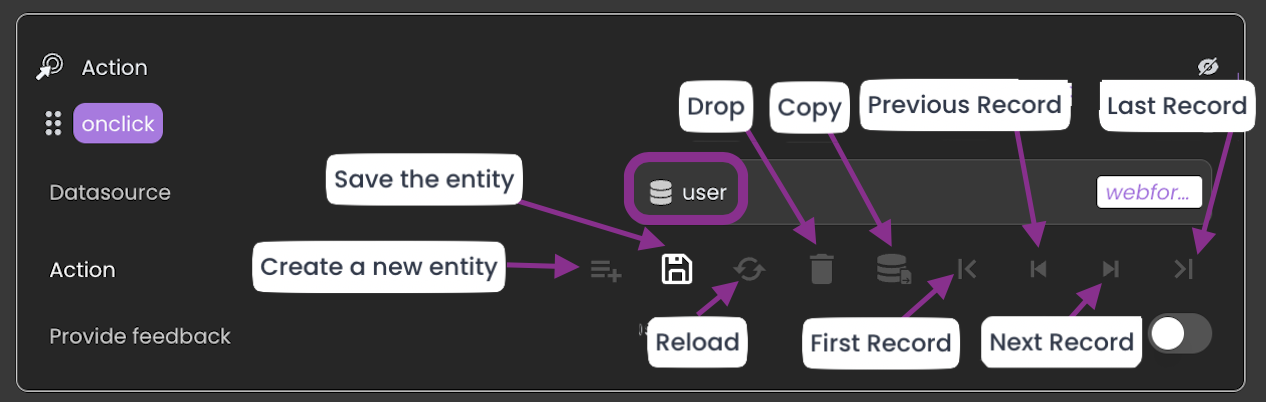
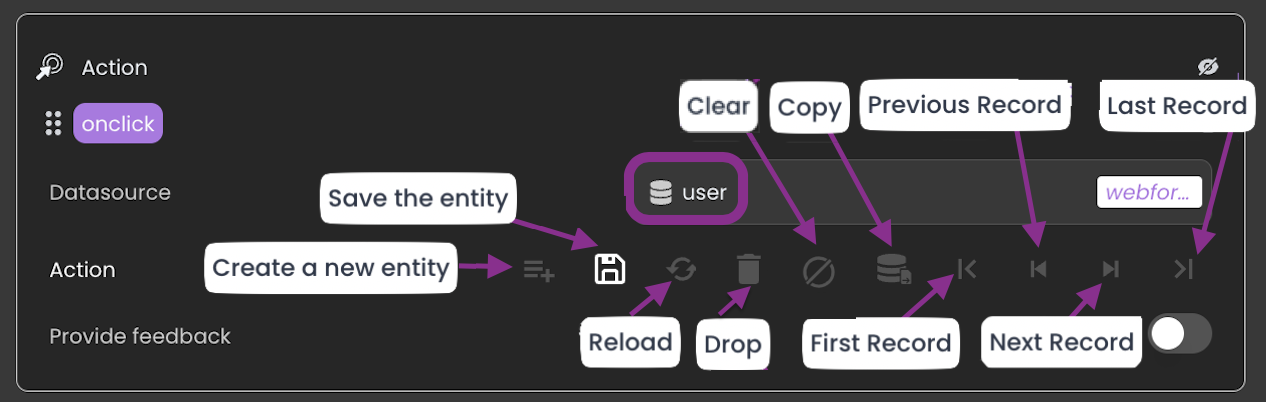
Bind Navigation Actions to Events + Navigate to Shared Folder Content revised

Changed region(s): [[0.154, 0.3582, 0.6777, 0.9254], [0.5237, 0.1791, 0.6161, 0.3284], [0.6469, 0.7761, 0.6777, 0.806]]

diff --git a/docs/studio/design-webforms/events.md b/docs/studio/design-webforms/events.md
@@ -99,7 +99,147 @@ In event coordination, actions are linked together sequentially. Pay attention t
 
 ## Configuring events
 
-The Contextual panel facilitates the association of class functions, navigation actions, and standard actions with distinct events within your application. To streamline the configuration of event actions, refer to the subsequent guidelines:
+The Contextual panel facilitates the association of class functions, navigation actions, and standard actions with distinct events within your application.
+
+### Bind Standard Actions to Events
+
+Standard actions apply to datasources, and their availability depends on the type of datasource. Datasources can be categorized into three types: Entity, Entity Selection, and Scalar. To link standard actions with events, follow these steps:
+
+- <Column.List align="center" justifyContent="between">
+	<Column.Item width="55%">
+        <span style={{fontWeight: 'bold'}}>Select and Assign</span>: Choose a component or datasource to access compatible events in the Contextual panel. Then, assign a standard action to your desired event by clicking <code>Add a Standard Action</code>.
+	</Column.Item>
+	<Column.Item width="40%">
+		<img alt="explorer" src={require('./img/contextualPanel_addStandardActionEvent.png').default} style={{borderRadius: '6px'}} />
+	</Column.Item>
+</Column.List>
+
+- **Define Action**: In the designated Action area, provide the name of the `datasource`, thus unveiling its inherent capabilities. The available actions vary, contingent on the type of datasource:
+
+    - <Column.List align="center" justifyContent="between">
+        <Column.Item width="55%">
+            For <span style={{fontWeight: 'bold'}}>Scalar datasources</span>: offer the ability either copy its content into another datasrouce of the same type or clear its content.
+        </Column.Item>
+        <Column.Item width="40%">
+            <img alt="explorer" src={require('./img/contextualPanel_scalarDatasourcesStandardActions.png').default} style={{borderRadius: '6px'}} />
+        </Column.Item>
+    </Column.List>
+
+    - <Column.List align="center" justifyContent="between">
+        <Column.Item width="55%">
+            For <span style={{fontWeight: 'bold'}}>Entity selections</span>: offer the ability to arrange and choose attributes for sorting. You can query, refresh, load all entities of a particular data class, and create new empty selections.
+        </Column.Item>
+        <Column.Item width="40%">
+            <img alt="explorer" src={require('./img/contextualPanel_entitySelectionStandardActions.png').default} style={{borderRadius: '6px'}} />
+        </Column.Item>
+    </Column.List>
+
+    - <Column.List align="center" justifyContent="between">
+        <Column.Item width="55%">
+           For <span style={{fontWeight: 'bold'}}>Entities from Entity Selections Datasources</span>: you can create new ones, save them, reload them, or even drop them. You have the ability to navigate through the entity selection, traversing to the first, previous, next, or last entity.
+        </Column.Item>
+        <Column.Item width="40%">
+            <img alt="explorer" src={require('./img/contextualPanel_entityStandardActions.png').default} style={{borderRadius: '6px'}} />
+        </Column.Item>
+    </Column.List>
+
+    - <Column.List align="center" justifyContent="between">
+        <Column.Item width="55%">
+            While <span style={{fontWeight: 'bold'}}>Independently Created Standalone Entities</span>: permits only direct actions like create, remove, or reload, as navigation actions are not applicable in this context, with the possibility to even clear it.
+        </Column.Item>
+        <Column.Item width="40%">
+            <img alt="explorer" src={require('./img/contextualPanel_entityStandaloneStandardActions.png').default} style={{borderRadius: '6px'}} />
+        </Column.Item>
+    </Column.List>
+
+<br />
+
+:::info
+[Entities originating from an entity selection datasource](datasources.md#standalone-entity-vs-entity-from-es) enable iterative navigation within the selection, while [Independently Created Standalone Entities](datasources.md#standalone-entity-vs-entity-from-es) are generated independently and lack any selection affiliation.
+:::
+
+<br />
+
+- **Provide Feedback**: Enable the <code>Provide Feedback</code> checkbox to customize the handling of unexpected error messages, determining what will be displayed to end users. For more detailed information, refer to the <a href="#providing-feedback">Provide Feedback</a> section. Here, you have the ability to:
+
+    <Column.List align="center" justifyContent="between">
+        <Column.Item width="55%">
+            <ul>
+                <li>Provide simple UI feedback on a <code>Save</code>, <code>Reload</code>, or <code>Drop</code> standard action on an entity.</li><br/>
+                <li>Provide simple UI feedback on a <code>Reload</code>, <code>Order by</code>, or <code>Query</code> standard action on an EntitySelection.</li>
+            </ul>
+        </Column.Item>
+        <Column.Item width="40%">
+            <img alt="explorer" src={require('./img/contextualPanel_provideFeedbackStandardAction.png').default} style={{borderRadius: '6px'}} />
+        </Column.Item>
+    </Column.List>
+
+<br />
+
+
+Here's an overview of available standard actions:
+
+|Datasource type|Action|Description|
+|---|---|---|
+|Entity|Create a new entity| Generate a new entity from the corresponding dataclass|
+||Save the entity|Save the entity on the server|
+||Reload|Reload entity values from the server|
+||Drop|Delete the entity on the server|
+||Copy|Copy the entity to a target entity datasource|
+||Clear|Put `null` in the datasource. If the datasource is the selected element of a component (Matrix, Select box, Datatable), clearing the datasource also unselects the selected element|
+||First (*)| Navigate to the first entity within the entity selection|
+||Previous (*)|Move to the previous entity within the entity selection|
+||Next (*)|Advance to the next entity within the entity selection|
+||Last (*)|Navigate to the last entity within the entity selection|
+|Entity selection|Order By|Specify one or more attributes to sort and select direction|
+||Query|The query is provided as a string and supports the same syntax as an [ORDA query](../../orda/queries.md), except for formula (`eval`) and the `settings` object. Placeholders can be used with datasources or data as-is|
+||Reload|Reload the entire entity selection from the server|
+||All|Load all entities of the same dataclass|
+||Clear|Remove any content and create a new, empty selection of the same dataclass|
+||Copy|Copy the entity selection to a target entity selection datasource|
+|Scalar|Copy|Copy the content of the datasource to a target datasource|
+||Clear|Erase the content within the datasource|
+
+(*) Only available for Entities from Entity Selection Datasources.
+
+
+### Bind Navigation Actions to Events
+
+To associate navigation actions with events, follow these steps:
+
+- <Column.List align="center" justifyContent="between">
+	<Column.Item width="55%">
+        <span style={{fontWeight: 'bold'}}>Select and Assign</span>: Choose a component or datasource to access compatible events in the Contextual panel. Then, assign a navigation action to your desired event by clicking <code>Add a Navigation Action</code>.
+	</Column.Item>
+	<Column.Item width="40%">
+		<img alt="explorer" src={require('./img/contextualPanel_addNavigationEvent.png').default} style={{borderRadius: '6px'}} />
+	</Column.Item>
+</Column.List>
+
+- **Explore Target Webforms**: Navigate through the available selection of target webforms, each representing a distinct destination for navigation actions.
+
+- **Define Transition Method**: Define the approach through which the target webform will be presented based on the following options:
+
+    <Column.List align="center" justifyContent="between">
+        <Column.Item width="60%">
+            <ul>
+                <li> <code>New Tab</code>: Induce the opening of a new browser tab.</li>
+                <li> <code>Current Tab</code>: Replace the ongoing browser tab with the chosen webform.</li>
+                <li> <code>Webform Loader</code>: Access the intended webform through a dedicated <a href="components/webformloader">Webform loader</a>.</li>
+                <li> <code>Webform Loader (Self)</code>: Reveals content within the existing <a href="components/webformloader">Webform loader</a></li>.
+            </ul>
+        </Column.Item>
+        <Column.Item width="35%">
+            <img alt="explorer" src={require('./img/contextualPanel_navigationAction.png').default} style={{borderRadius: '6px'}} />
+        </Column.Item>
+    </Column.List>
+ 
+Please be aware that:
+
+:::tip 
+The feature for providing feedback is not applicable in the context of navigation events. This implies that users will not have the option to provide feedback regarding their navigation experience.
+:::
+
 
 ### Bind Class Functions to Events
 
@@ -165,91 +305,6 @@ On top of that:
 A single class function can be utilized across multiple events, allowing you to assign multiple events to a single function and observe a coordinated sequence of actions taking place.
 :::
 
-### Bind Navigation Actions to Events
-
-To associate navigation actions with events, follow these steps:
-
-- **Select a component or a datasource**: The Contextual panel will present you with a list of compatible events tailored to your selection.
-
-- <Column.List align="center" justifyContent="between">
-	<Column.Item width="55%">
-        <span style={{fontWeight: 'bold'}}>Add a Navigation Event</span>: Click on <code>Add a Navigation Event</code> to assign a navigation action to a desired event.
-	</Column.Item>
-	<Column.Item width="40%">
-		<img alt="explorer" src={require('./img/contextualPanel_addNavigationEvent.png').default} style={{borderRadius: '6px'}} />
-	</Column.Item>
-</Column.List>
-
-- **Explore Target Webforms**: Navigate through the available selection of target webforms, each representing a distinct destination for navigation actions.
-
-- **Define Transition Method**: Define the approach through which the target webform will be presented based on the following options:
-
-    <Column.List align="center" justifyContent="between">
-        <Column.Item width="60%">
-                - <code>New Tab</code>: Induce the opening of a new browser tab.<br />
-                - <code>Current Tab</code>: Replace the ongoing browser tab with the chosen webform.<br />
-                - <code>Webform Loader</code>: Access the intended webform through a dedicated <a href="components/webformloader">Webform loader</a>.<br />
-                - <code>Webform Loader (Self)</code>: Reveals content within the existing <a href="components/webformloader">Webform loader</a>.
-        </Column.Item>
-        <Column.Item width="35%">
-            <img alt="explorer" src={require('./img/contextualPanel_navigationAction.png').default} style={{borderRadius: '6px'}} />
-        </Column.Item>
-    </Column.List>
- 
-Please be aware that:
-
-:::tip 
-The feature for providing feedback is not applicable in the context of navigation events. This implies that users will not have the option to provide feedback regarding their navigation experience.
-:::
-
-### Bind Standard Actions to Events
-
-To link standard actions with events, follow these steps:
-
-- **Select a component or a datasource**: The Contextual panel will present you with a list of compatible events tailored to your selection. 
-
-- <Column.List align="center" justifyContent="between">
-	<Column.Item width="55%">
-        <span style={{fontWeight: 'bold'}}>Standard Actions</span>: Click on <code>Add a Standard Action</code> to assign a standard action to a desired event.
-	</Column.Item>
-	<Column.Item width="40%">
-		<img alt="explorer" src={require('./img/contextualPanel_addStandardActionEvent.png').default} style={{borderRadius: '6px'}} />
-	</Column.Item>
-</Column.List>
-
-- **Define Action**: In the designated Action area, provide the name of the datasource, thus unveiling its inherent capabilities. The available actions vary, contingent on the type of datasource:
-
-    - <Column.List align="center" justifyContent="between">
-        <Column.Item width="55%">
-           For <span style={{fontWeight: 'bold'}}>Entities</span>: you can create new ones, save them, reload them, or even drop them. You have the ability to navigate through the entity selection, traversing to the first, previous, next, or last entity.
-        </Column.Item>
-        <Column.Item width="40%">
-            <img alt="explorer" src={require('./img/contextualPanel_entityStandardActions.png').default} style={{borderRadius: '6px'}} />
-        </Column.Item>
-    </Column.List>
-
-    <br />
-
-    - <Column.List align="center" justifyContent="between">
-        <Column.Item width="55%">
-            While <span style={{fontWeight: 'bold'}}>Entity selections</span>: offer the ability to arrange and choose attributes for sorting. You can query, refresh, load all entities of a particular data class, and create new empty selections.
-        </Column.Item>
-        <Column.Item width="40%">
-            <img alt="explorer" src={require('./img/contextualPanel_entitySelectionStandardActions.png').default} style={{borderRadius: '6px'}} />
-        </Column.Item>
-    </Column.List>
-
-- **Provide Feedback**: Enable the <code>Provide Feedback</code> checkbox to customize the handling of unexpected error messages, determining what will be displayed to end users. For more detailed information, refer to the <a href="#providing-feedback">Provide Feedback</a> section. Here, you have the ability to:
-
-    <Column.List align="center" justifyContent="between">
-        <Column.Item width="55%">
-            - Provide simple UI feedback on a Save, Reload, or Drop standard action on an entity.<br /><br />
-            - Provide simple UI feedback on a Reload, Order by, or Query standard action on an EntitySelection.
-        </Column.Item>
-        <Column.Item width="40%">
-            <img alt="explorer" src={require('./img/contextualPanel_provideFeedbackStandardAction.png').default} style={{borderRadius: '6px'}} />
-        </Column.Item>
-    </Column.List>
 
 ### Navigate to External Links
 
@@ -290,7 +345,7 @@ In addition to navigating to webforms, Qodly Studio offers a convenient way to d
 
 ### Navigate to Shared Folder Content
 
-Accessing content stored in the **Shared** folder follows a process similar to [navigating to external links](#navigate-to-external-links). You have the option to display items from this folder, like images, in either a new tab or the current tab by specifying the image path (e.g., `/$shared/visuals/banner.png`) in the "Select Target" field.
+Accessing content stored in the **Shared** folder follows a process similar to [navigating to external links](#navigate-to-external-links). You have the option to display items from this folder, like images, in either a new tab or the current tab by specifying the image path (e.g., `/$shared/visuals/banner.png`) in the "Select Target" field. Ensure that the path begins with `/$shared`.
 
 :::tip 
 When the path points to a file, it doesn't open it in a new tab but instead initiates a download.
